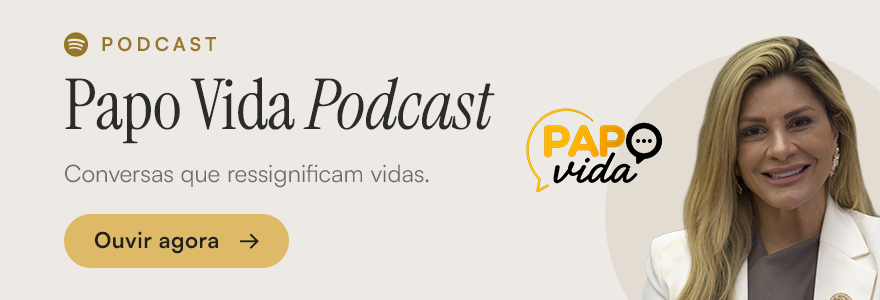
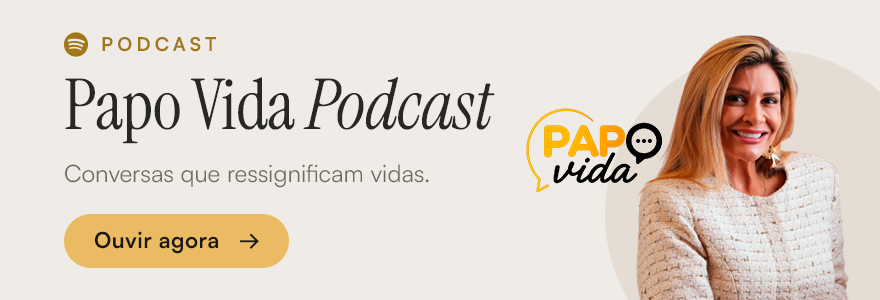
att foto

Changed region(s): [[0.7057, 0.12, 1.0, 1.0]]

diff --git a/css/style.css b/css/style.css
@@ -165,15 +165,15 @@ body {
   background: var(--cor-branca);
   box-shadow: 0 0 0 2px rgba(201,164,95,.55), 0 10px 25px rgba(0,0,0,.18);
 }
-/* leve zoom ancorado à direita para centralizar o rosto */
+/* zoom no rosto (fica a ~37% da largura da foto) e desloca para o centro do círculo */
 .profile-photo img {
   width: 100%;
   height: 100%;
   display: block;
   object-fit: cover;
   object-position: top center;
-  transform: scale(1.15);
-  transform-origin: 100% 0;
+  transform: translateX(12%) scale(1.25);
+  transform-origin: 50% 50%;
 }
 .profile h1 {
   font-family: 'Playfair Display', var(--fonte-principal);
